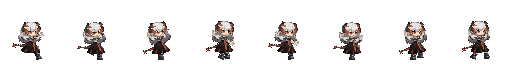
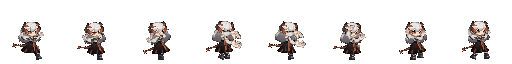
塞雷娅 S3 拳击改双拳前推：双臂提到毛领上层、手臂拉长拳头放大，1 倍下看得出双手（用户 10-24，docs/140 §7.2）

diff --git a/tools/op_1x/native_extra.py b/tools/op_1x/native_extra.py
@@ -37,10 +37,26 @@ def hoshiguma():
     return ["op_hoshiguma_s1_guard_move"]
 
 
-# 塞雷娅 S3 空手拳击（10-24 用户「技能期间改成跑动拳击」）：原生 Skill_Loop t=0 的空手站姿上逐帧转左臂（面朝右时在前的那只）。
-# 帧数 / 出手帧与普攻条相同（8 帧，第 4 帧出手），时序由 json 抄普攻的 attack_timing。[上臂, 前臂, 胸] 转角增量（度，负 = 向前下）
-PUNCH = [(0, 0, 0), (20, 45, 4), (28, 70, 6), (-42, -18, -8), (-40, -15, -6), (-20, 15, -2), (0, 30, 0), (5, 15, 0)]
+# 塞雷娅 S3 空手拳击（10-24 用户「技能期间改成跑动拳击」→「看不太出来双手，能不能手往前伸」）：原生 Skill_Loop t=0 的空手站姿上
+# 逐帧转双臂（左臂在前；右臂在身后，转约 -140° 才到身前）。手臂大半被白毛领挡住，出拳几帧把双臂提到毛领上层画（top），
+# 上臂 / 前臂沿骨长方向拉长、拳头放大（像素画的夸张手法），1 倍下才看得出双手前推。
+# 帧数 / 出手帧与普攻条相同（8 帧，第 4 帧出手），时序由 json 抄普攻的 attack_timing。
+# 每帧：(左上臂, 左前臂, 右上臂, 胸, 手臂拉长, 拳头放大, 提到上层) ；角度为转角增量（度）
+PUNCH = [(0, 0, 0, 0, 1.0, 1.0, False), (20, 45, 20, 4, 1.0, 1.0, False), (28, 70, 35, 6, 1.0, 1.0, True),
+         (-35, -5, -140, -10, 1.3, 1.4, True), (-33, -5, -135, -9, 1.25, 1.35, True), (-15, 15, -70, -4, 1.1, 1.15, True),
+         (0, 25, -20, 0, 1.0, 1.0, True), (5, 10, 0, 0, 1.0, 1.0, False)]
 SARIA_HIDE = ["F_Shield", "F_Weapon", "F_Pinhead"]   # 盾 / 武器已放下
+SARIA_ARMS = ["F_R_Arm", "F_R_Shoulder", "F_R_Hand_C", "F_R_Hand_B", "F_R_Hand",
+              "F_L_Arm", "F_L_Shoulder", "F_L_Wrap", "F_L_Ring", "F_L_Hand_C", "F_L_Hand_B", "F_L_Hand", "F_L_Finger", "F_L_Finger_2"]
+
+
+def punch_poses():
+    out = []
+    for la, lf, ra, ch, k, h, top in PUNCH:
+        sc = {} if k == 1.0 else {"F_L_Arm": [k, 1], "F_L_Shoulder": [k, 1], "F_L_Hand": [h], "F_R_Arm": [k, 1], "F_R_Shoulder": [k, 1], "F_R_Hand": [h]}
+        out.append({"anim": "Skill_Loop", "t": 0, "rot": {"F_L_Arm": la, "F_L_Shoulder": lf, "F_R_Arm": ra, "F_Chest": ch},
+                    "scale": sc, "top": SARIA_ARMS if top else [], "hide": SARIA_HIDE})
+    return out
 
 
 def render_poses(op, base_cfg, name, poses, mode=None):
@@ -65,7 +81,7 @@ def saria():
     dl, _ = render("saria", "idle_stand.json", "s3_loop_raw", "Skill_Loop", loop)
     de, _ = render("saria", "idle_stand.json", "s3_end_raw", "Skill_End", end)
     dr, _ = render("saria", "attack_move.json", "s3_run", "Skill_Loop", loop, "move_attack")
-    poses = [{"anim": "Skill_Loop", "t": 0, "rot": {"F_L_Arm": a, "F_L_Shoulder": f, "F_Chest": c, "F_R_Arm": 12 if a < 0 else 0}, "hide": SARIA_HIDE} for a, f, c in PUNCH]
+    poses = punch_poses()
     dp, _ = render_poses("saria", "attack_move.json", "s3_punch", poses)
     dm, _ = render_poses("saria", "attack_move.json", "s3_punch_move", poses, "move_attack")
     foot = [31.75, 59.57669522183914]

diff --git a/docs/140_op_anim_audit.md b/docs/140_op_anim_audit.md
@@ -121,5 +121,5 @@ python -X utf8 tools/op_1x/native_extra.py --only hoshiguma,saria               
 - **新帧条**：`op_saria_skill_s3_attack`、`op_saria_move_skill_s3_attack`。json 里时序抄普攻的 `attack_timing`，序列加 `"attack": "skill_s3_attack"`。
 - **代码**：`character._move_swap` 允许技能循环里的普攻变体（`sq_atk`）在移动中换跑动版；`_sq_atk_yield` 在变体有跑动版时不让位。
 - **结果**：录像（`build/anim_move/v2/saria_2.gif`，技能期间照常普攻、走停来回）里循环段的出拳 205 帧，其中移动中 112 帧换成跑动拳击；不出拳时站着播循环、移动播空手跑。
-- **局限**：塞雷娅的手臂大半被白色毛领遮住，出拳在 1 倍下只有约 6 px 的前伸，能看出来但不夸张。要更明显，可以在 spine 编辑器里再加大胸部前倾和后摆。
+- **第二版（用户「看不太出来双手，能不能手往前伸」）**：改成双拳前推。后臂转约 -140° 到身前；出拳几帧把双臂提到白毛领上层画，上臂 / 前臂拉长 1.3 倍、拳头放大 1.4 倍（像素画的夸张手法），1 倍下双手前伸约 14 px。实机里技能晶柱特效较密，站在队长身前的博士也会挡一部分。
 
